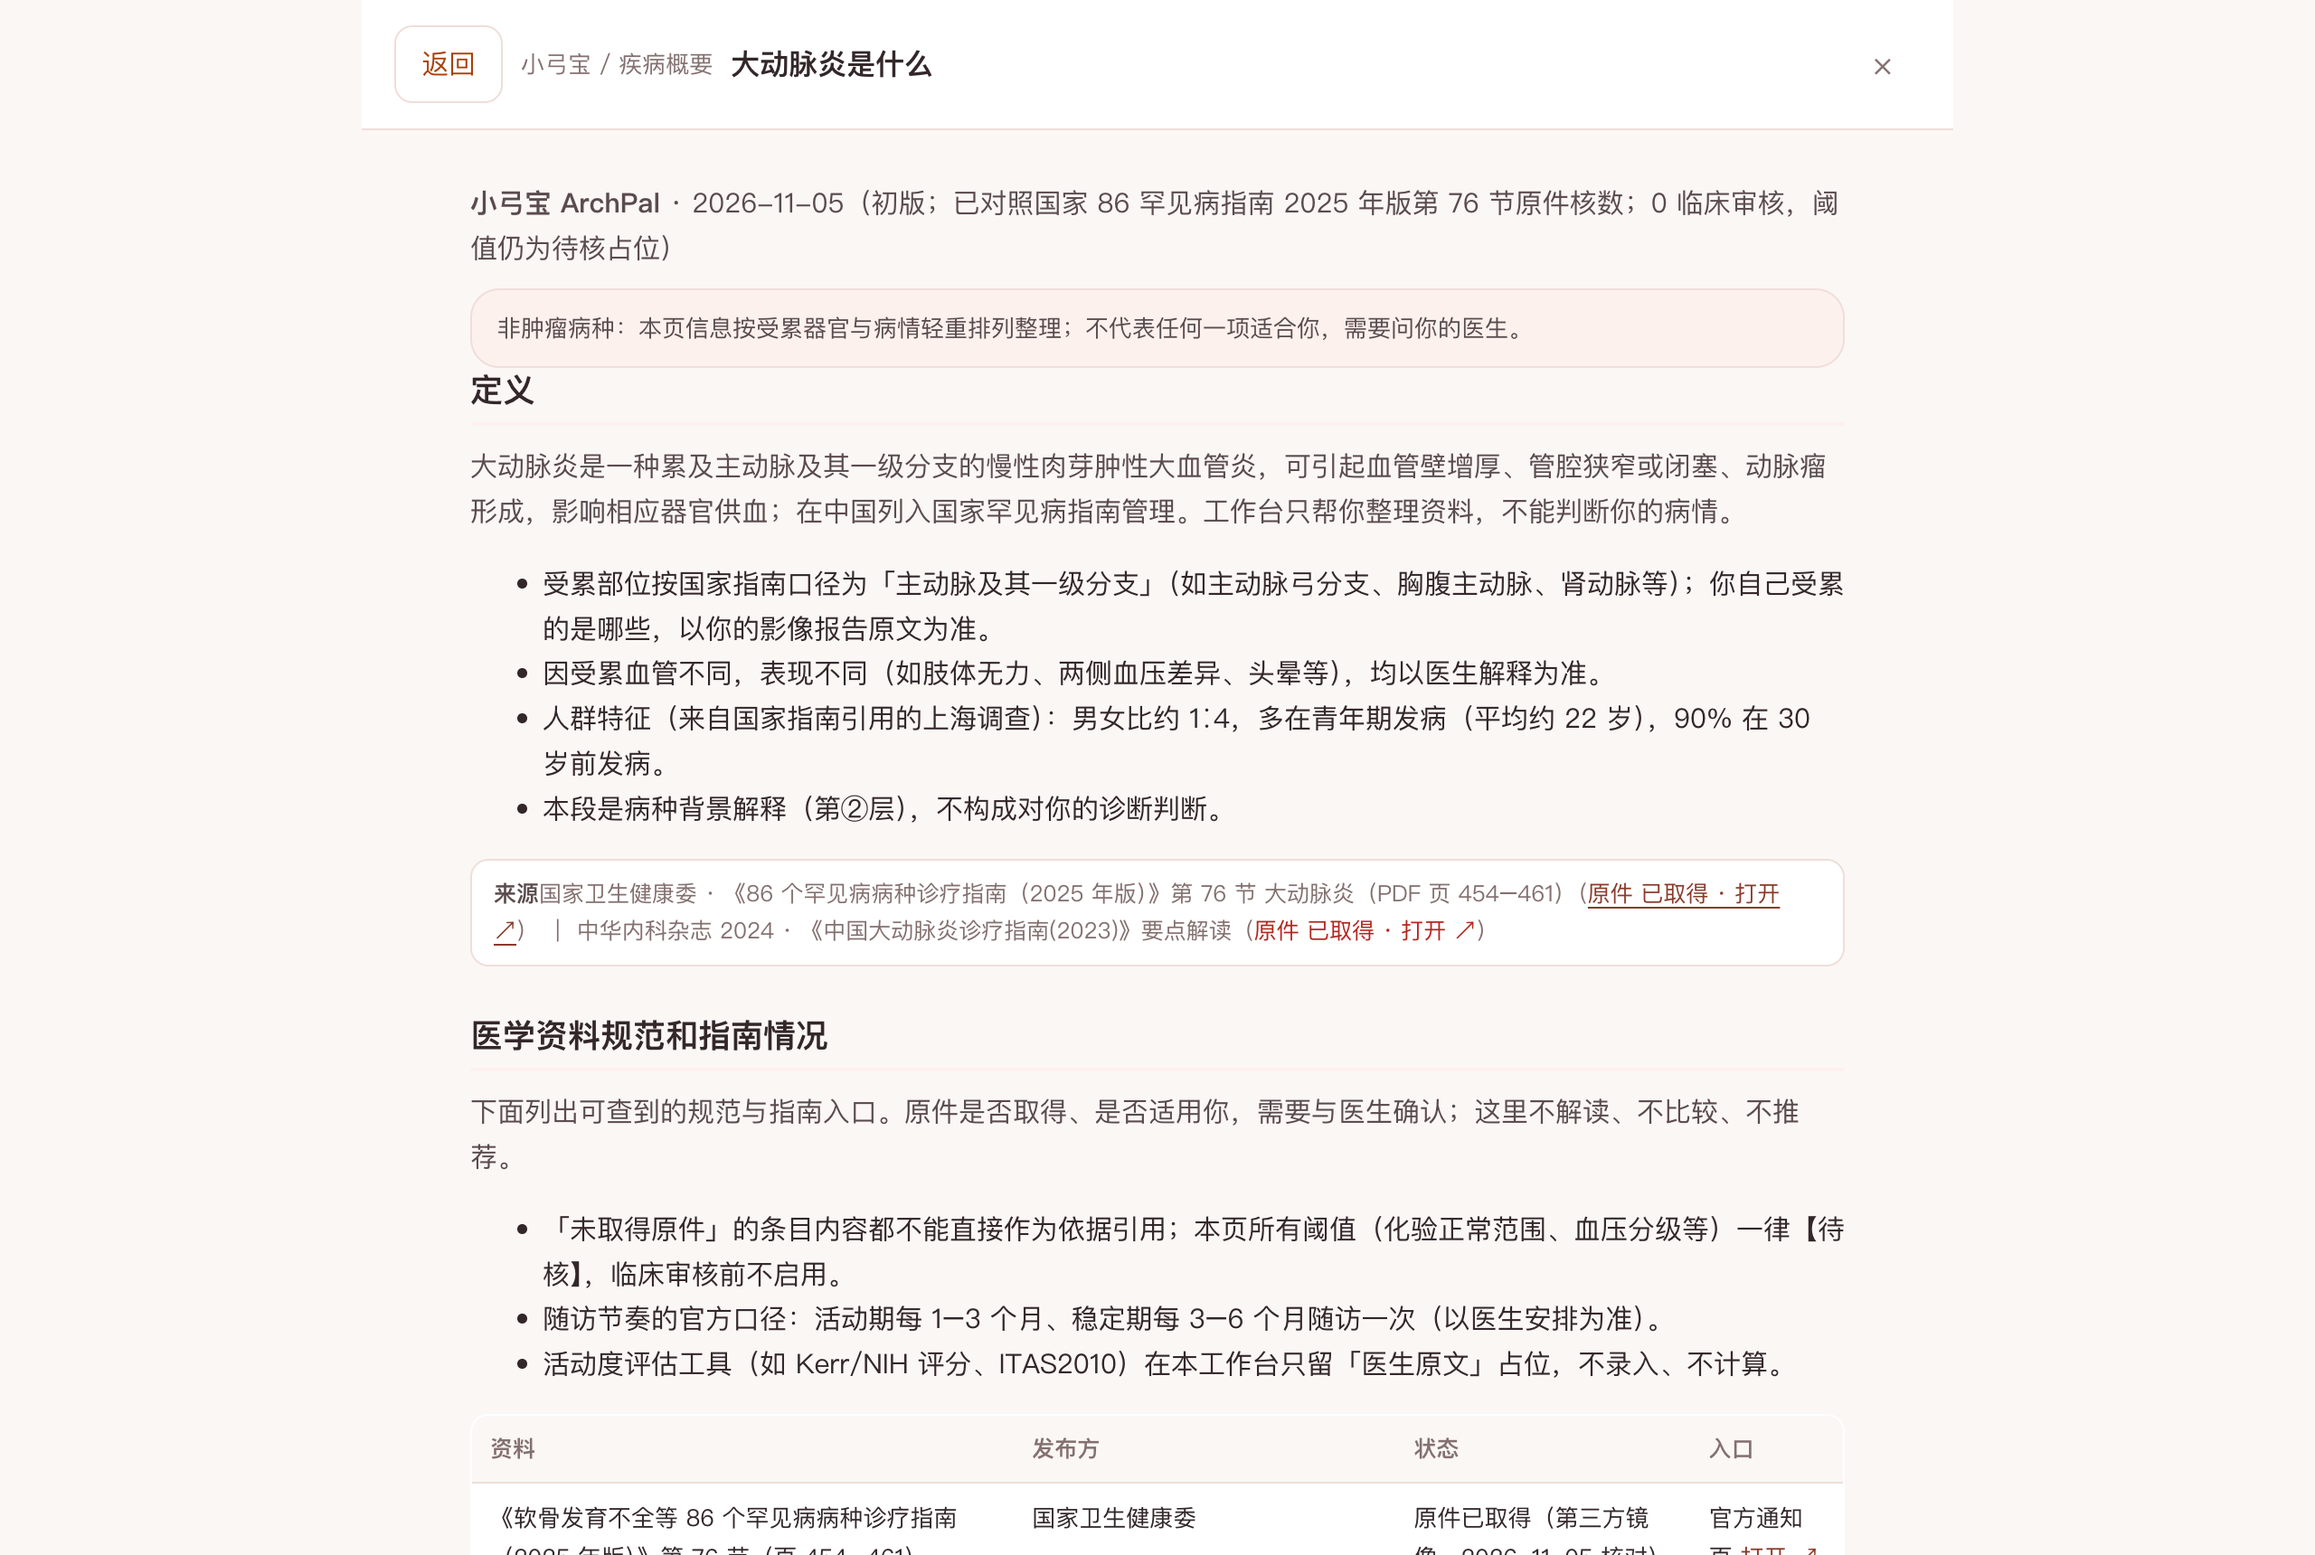
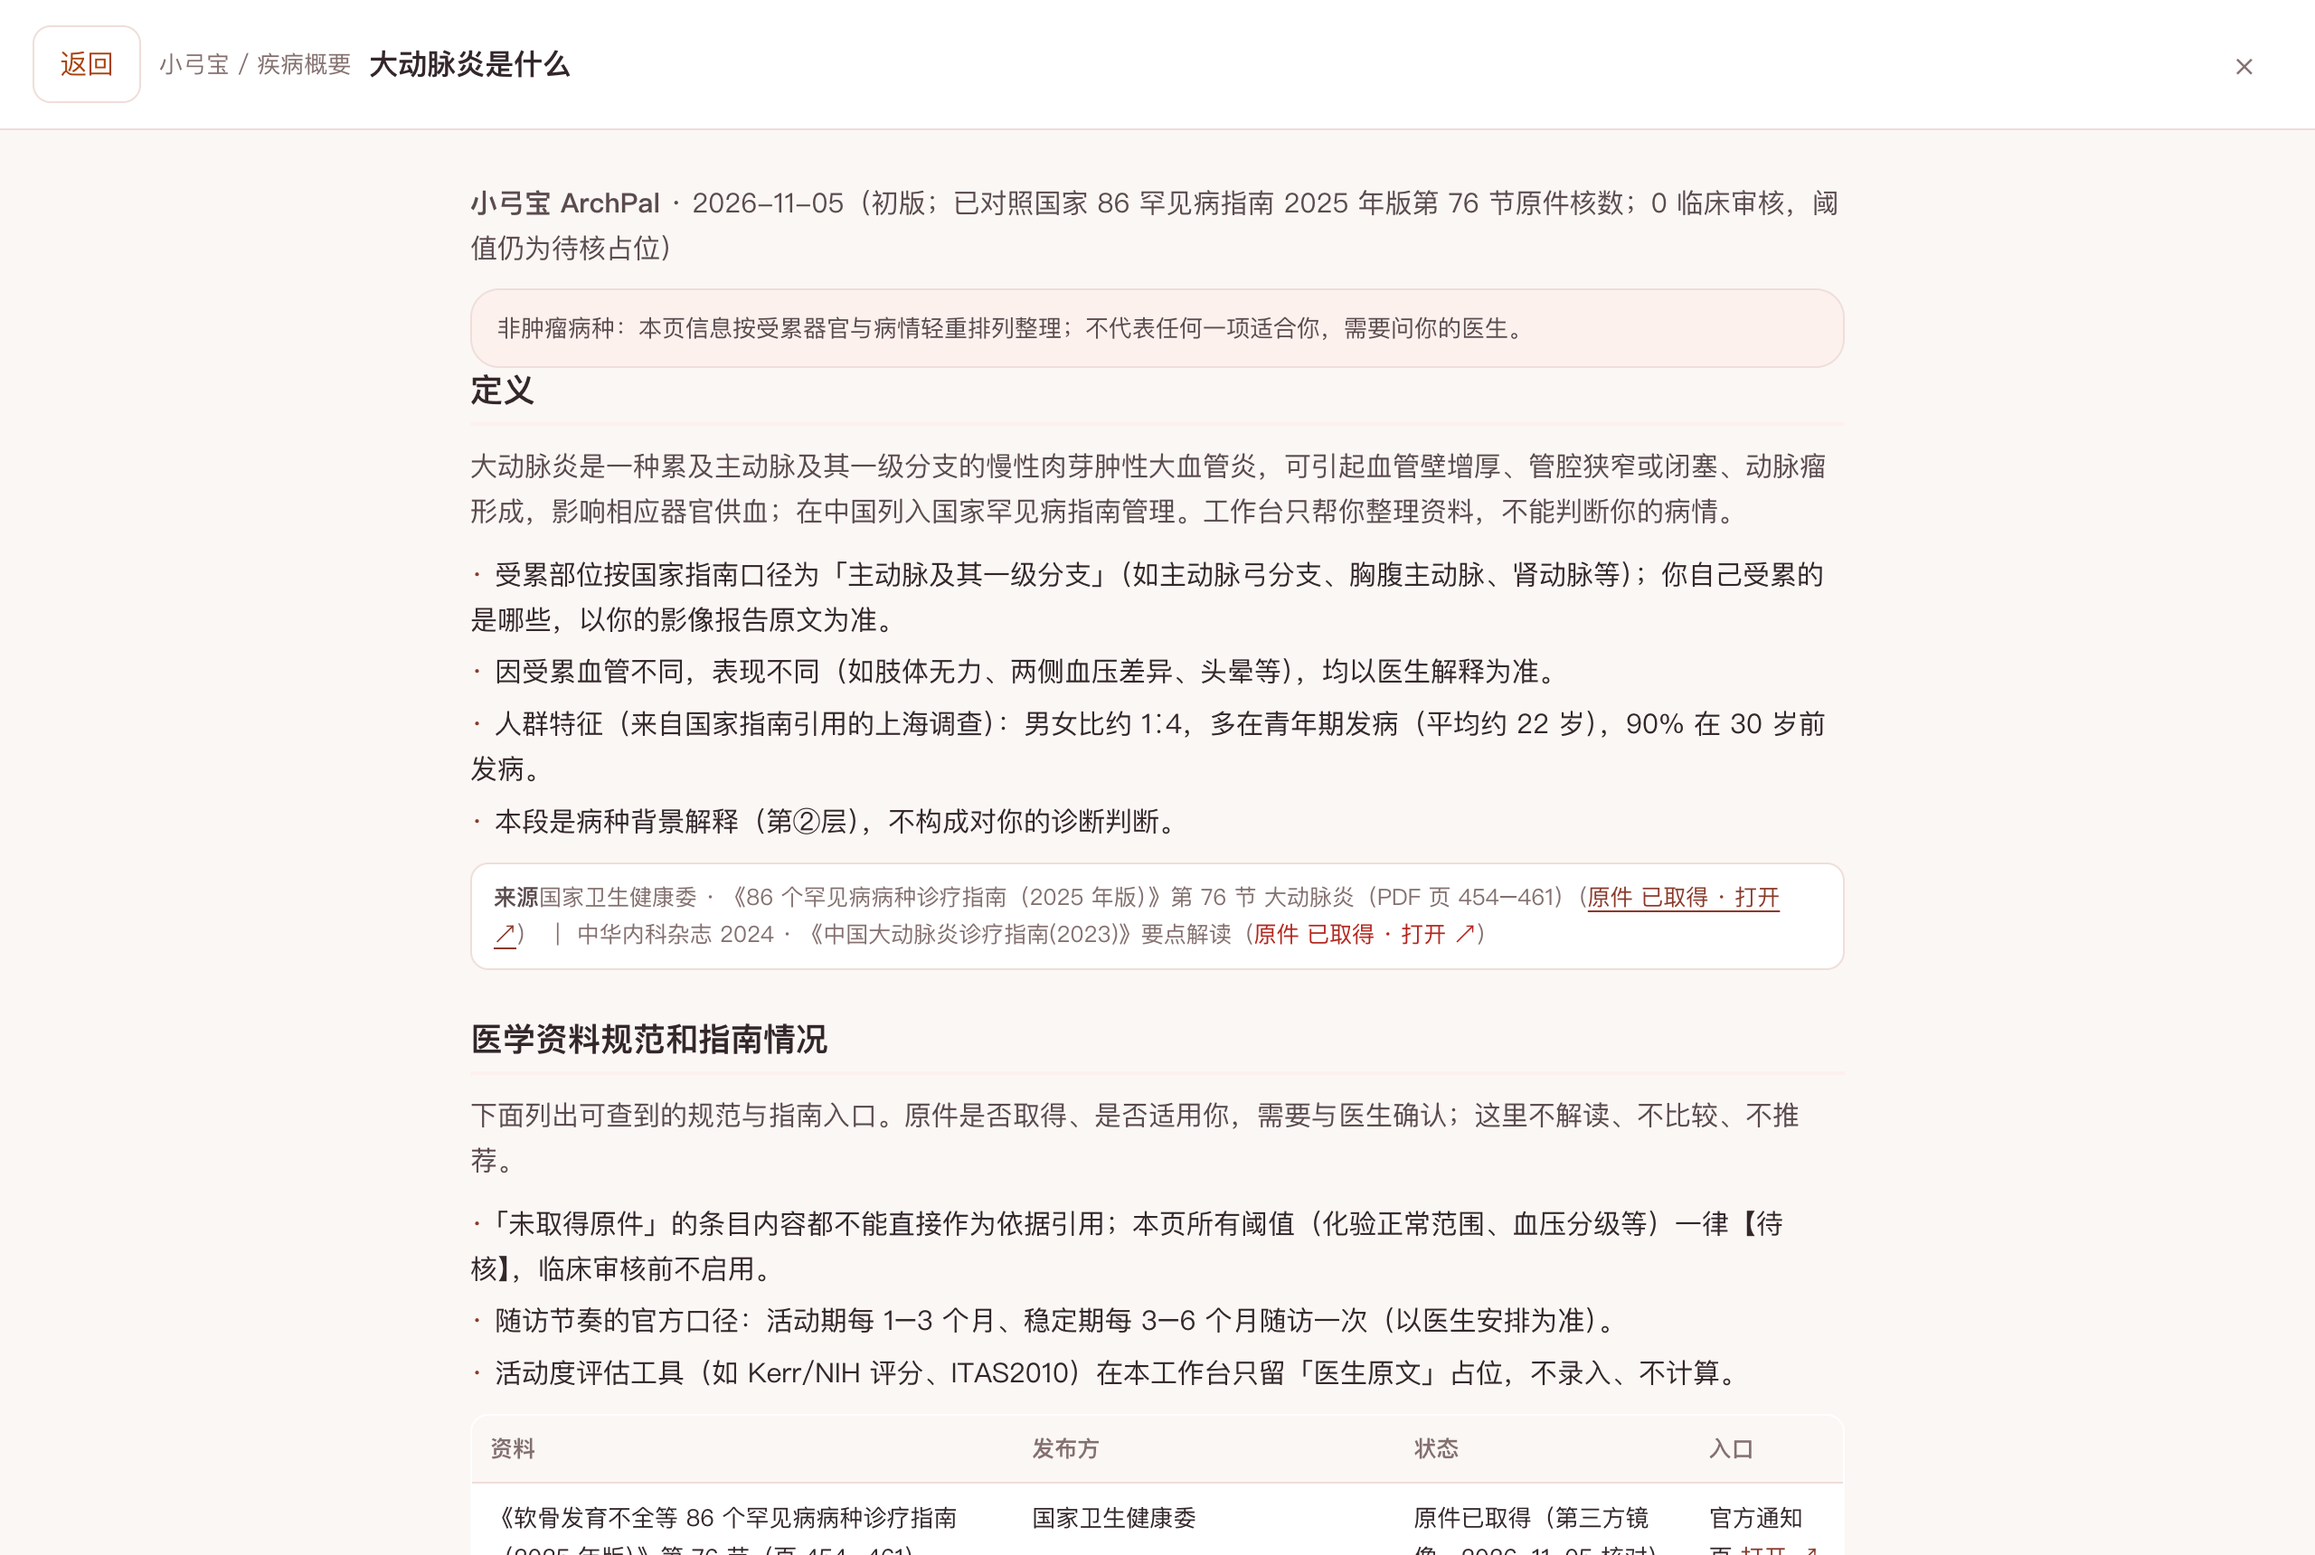
M2 final: P0 fixes from independent review (cross-repo trace removed, prepSection privacy filter aligned) + primer family contract (data-dp attrs, DiseasePrimer API, dp-points baseline, full-bleed panel) + 10/10 primer probe + 32/32 tak probe + G2 auto-signoff

diff --git a/prototypes/v0.2/primer.js b/prototypes/v0.2/primer.js
@@ -46,11 +46,11 @@
     out += '<h3>' + sec.title + '</h3>';
     if (sec.intro) out += '<p class="dp-lead">' + sec.intro + '</p>';
     if (sec.points && sec.points.length) {
-      out += '<ul>' + sec.points.map(function (p) { return '<li>' + p + '</li>'; }).join('') + '</ul>';
+      out += '<ul class="dp-points">' + sec.points.map(function (p) { return '<li>' + p + '</li>'; }).join('') + '</ul>';
     }
     if (sec.groups && sec.groups.length) {
       out += sec.groups.map(function (g) {
-        return '<div class="dp-group"><h4>' + g.label + '</h4><ul>' +
+        return '<div class="dp-group"><h4>' + g.label + '</h4><ul class="dp-points">' +
           g.points.map(function (p) { return '<li>' + p + '</li>'; }).join('') + '</ul></div>';
       }).join('');
     }
@@ -89,10 +89,10 @@
     el.innerHTML =
       '<div class="dp-panel">' +
       '<div class="dp-head">' +
-      '<button class="ghost dp-back" type="button">返回</button>' +
+      '<button class="ghost dp-back" type="button" data-dp="back">返回</button>' +
       '<div class="crumb">小弓宝 <span>/</span> 疾病概要</div>' +
       '<h2 id="dp-title">大动脉炎是什么</h2>' +
-      '<button class="icon-button dp-close" type="button" aria-label="关闭疾病概要">×</button>' +
+      '<button class="icon-button dp-close" type="button" data-dp="close" aria-label="关闭疾病概要">×</button>' +
       '</div>' +
       '<div class="dp-body">' + build() + '</div>' +
       '</div>';
@@ -124,8 +124,8 @@
     el.hidden = true;
     document.documentElement.classList.remove('dp-lock');
     var t = document.querySelectorAll('[data-primer-open]')[0];
-    if (t) t.setAttribute('aria-expanded', 'false');
-    if (opener && opener.focus) opener.focus();
+    if (t) { t.setAttribute('aria-expanded', 'false'); try { t.focus(); } catch (e) {} }
+    if (opener && opener.focus) { try { opener.focus(); } catch (e) {} }
     if (window.scrollTo) window.scrollTo(0, prevScroll);
   }
 
@@ -146,6 +146,12 @@
     }
     if (location.hash === '#disease-primer') show();
   }
+
+  window.DiseasePrimer = {
+    isOpen: function () { return !!(el && !el.hidden); },
+    open: function () { show(); },
+    close: function () { close(); }
+  };
 
   if (document.readyState === 'loading') {
     document.addEventListener('DOMContentLoaded', boot);

diff --git a/prototypes/v0.2/app.js b/prototypes/v0.2/app.js
@@ -1,6 +1,6 @@
 /* 小弓宝 ArchPal · 大动脉炎工作台原型 v0.2.0
  * 全部为合成示例；未接入 DSH / AI；候选核对前不入图；私密三出口共用同一过滤。
- * 结构底本：cervical v0.2（外壳/链路）+ breast v0.4（指标卡/眉题/五 Tab）+ aml v0.2（AI 面板/泳道/折叠卡）。
+ * 外壳与组件结构为小 X 宝家族通用元素体系（原型声明条/侧栏/顶栏、定高 3D 指标卡、右侧 AI 面板、事件泳道、原生折叠卡）。
  * 非肿瘤红线：无分期、无线序、无疗效；活动度只存医生原文；阈值一律【待核】。
  */
 (function () {
@@ -683,8 +683,8 @@
   function prepSection(p) {
     var map = pointsByCode();
     var esr = (map.esr || []).slice(-1)[0], crp = (map.crp || []).slice(-1)[0];
-    var bp = (p.bpRecords || []).slice(-1)[0];
-    var meds = (p.meds || []).slice(-1)[0];
+    var bp = filterPrivate(p.bpRecords || []).slice(-1)[0];
+    var meds = filterPrivate(p.meds || []).slice(-1)[0];
     var items = [];
     if (esr) items.push('最近血沉 ' + esr.value + ' ' + esr.unit + '（' + esr.date + '）');
     if (crp) items.push('最近 CRP ' + crp.value + ' ' + crp.unit + '（' + crp.date + '）');
@@ -791,7 +791,7 @@
         out += '<div class="row" style="margin-top:10px">' + aiBtn() + '<span class="k">点「和 AI 讨论」也不会携带私密条目。</span></div>';
       }
     } else {
-      out += '<div class="card"><h3>家庭负担与照护者</h3><p class="k">把「家里人帮了什么、什么最难开口」留在这里；与 aml-workbench 心智负担线同构，内容为本病种原创。</p>' +
+      out += '<div class="card"><h3>家庭负担与照护者</h3><p class="k">把「家里人帮了什么、什么最难开口」留在这里；内容为本病种原创。</p>' +
         '<div class="empty"><div class="big">暂无条目</div><p>例：谁陪诊、谁记血压、谁管药盒。</p><button class="primary" data-action="noop">记一条（原型未实现录入）</button></div></div>';
     }
     return out;

diff --git a/prototypes/v0.2/primer.css b/prototypes/v0.2/primer.css
@@ -1,6 +1,6 @@
 /* 疾病概要整页浮层（36 号 / P 组）—— 与家族 primer 样式同构 */
 .dp-overlay { position: fixed; inset: 0; z-index: 150; background: var(--paper); display: flex; flex-direction: column; }
-.dp-panel { flex: 1; display: flex; flex-direction: column; min-height: 0; width: min(880px, 94vw); margin: 0 auto; }
+.dp-panel { flex: 1; display: flex; flex-direction: column; min-height: 0; width: 100%; }
 .dp-head { display: flex; align-items: center; gap: 10px; padding: 14px 18px; background: var(--surface); border-bottom: 1px solid var(--line); position: sticky; top: 0; }
 .dp-head .crumb { color: var(--muted); font-size: 13px; }
 .dp-head h2 { font-size: 16px; flex: 1; min-width: 0; }
@@ -10,8 +10,9 @@
 .dp-section h3 { font-size: 18px; padding-bottom: 6px; border-bottom: 2px solid var(--brand-soft); }
 .dp-lead { color: var(--ink-2); margin: 10px 0; }
 .dp-group h4 { font-size: 14.5px; margin: 14px 0 6px; color: var(--brand-deep); }
-.dp-group ul { margin: 4px 0; padding-left: 20px; }
-.dp-group li { margin: 4px 0; }
+.dp-points { list-style: none; margin: 4px 0; padding-left: 0; }
+.dp-points li { margin: 4px 0; padding-left: 0; }
+.dp-points li::before { content: "·"; margin-right: 6px; color: var(--brand-deep); }
 .dp-table { width: 100%; border-collapse: collapse; font-size: 13px; margin: 10px 0; background: var(--surface); border: 1px solid var(--line); border-radius: var(--radius-sm); overflow: hidden; }
 .dp-table th, .dp-table td { padding: 8px 10px; border-bottom: 1px solid var(--line); text-align: left; vertical-align: top; }
 .dp-table th { background: var(--paper); font-size: 12.5px; color: var(--muted); }

diff --git a/prototypes/v0.2/style.css b/prototypes/v0.2/style.css
@@ -1,6 +1,6 @@
 /* 小弓宝 ArchPal · 大动脉炎工作台原型样式 v0.2.0
  * 令牌先于组件：颜色/圆角/间距全部走 :root 令牌；组件只引用令牌。
- * 结构基准：cervical-workbench v0.2（外壳）+ breast v0.4（指标卡/眉题）+ aml v0.2（AI 面板/折叠卡）。
+ * 布局为小 X 宝家族通用元素体系：三段外壳、236px 侧栏、定高 194px 3D 指标卡、右置 AI 面板、三档断点。
  * 语义红线：无肿瘤分期/线序/疗效语义；活动度只存医生原文。
  */
 :root {

diff --git a/docs/signoffs/G2-自动签认.md b/docs/signoffs/G2-自动签认.md
@@ -1,0 +1,23 @@
+# G2 自动签认（无人值守）
+
+- 闸口：G2（M2 原型完成）
+- 日期时间：2026-11-05 03:5x
+- commit：08e6b12 + P0 修复提交
+- 逐条结果与证据路径：
+  1. 演示数据构建器两套合成档案（A 刚确诊记录少 / B 长期随访多）→ **通过**：prototypes/v0.2/demo-data.js（唯一源 window.TAK_DEMO；边界样例：零条 preg-track、单条 A-影像、多条 B-化验、缺字段 null 剂量、未知日期 2026-06 仅知月份、私密 mind、无原件 CTA）
+  2. 切换整页联动不串档 → **通过**：probe-tak-m2 Q10（A:46/118 → B:72/142 → A 还原，页头档案名变化）
+  3. prototypes/v0.2 四件套（index.html/style.css/demo-data.js/app.js）+ primer 两件 → **通过**
+  4. 结构与小粉宝、小橙宝对齐 → **通过**：docs/FAMILY-CONTRAST.md（四仓导航实读，一级重名率最高 50% ≤70%）
+  5. 非肿瘤裁剪 → **通过**：无肿瘤分期/线序/疗效语义（独立评审 grep 复核 0 命中）；活动期—稳定期表达
+  6. 32 号折叠卡模版 → **通过**：details.phase-fold 原生语义 + 打印全展开（截图两态）
+  7. 35 号试验线四段链路 → **通过**：trials tr-facts/tr-search/tr-match（登记摘录真实、无匹配指数无判读列）
+  8. HVT X1–X4 → **通过**：probe IP2/X1 孤儿页 0（32/32 全渲染非空）、X4 无头断言出数字
+  9. SVG class="chart" + smoothPath Fritsch–Carlson + fill=none → **通过**：probe C1a（computed fill=none ×2 path）
+  10. AI 按钮 agent-draft 一键携带提示词+病情上下文 → **通过**：probe Q14/Q17/Q19（send:false、无判定词）
+  11. 检查点清单逐条 → **通过**：probe-tak-m2 32/32（IP2/Q10/MT04a/MT07/C11/C12/MT08a/C1a/C4/C2/C3/C8/Q35a/Q14/Q17/Q19/A1/A9/A2-A4/MT09/A5/P2/P3/P4/P5/P6/P7/P8a/Q26/Q4/Q5/JS）+ probe-disease-primer 10/10 + probe-page-view 家族契约自检 PASS
+  12. 独立评审 P0 清零并留修复痕迹 → **通过**：独立评审报告 2 P0（aml 仓名渲染入界面 app.js:794；prepSection 摘要未过 filterPrivate app.js:686）均已一行修复并复跑三探针全绿；P2 注释中性化一并完成
+  13. README 实渲截图 ≥4 张含折叠收/展态 → **通过**：docs/screenshots/ 11 张（v0.2.0-*），README 截图墙一段一图
+  14. 禁词检查 → **通过**：grep 分期/FIGO/线序/疗效/预后/生存期/MRD/粒缺/血浆置换/ADAMTS13 = 0 命中（独立评审复核）
+- 未达标项：无
+- 返工轮次：1（独立评审 P0×2 → 修复 → 三探针复跑全绿）
+- 结论：**自动签认通过（待晨审追认）**
